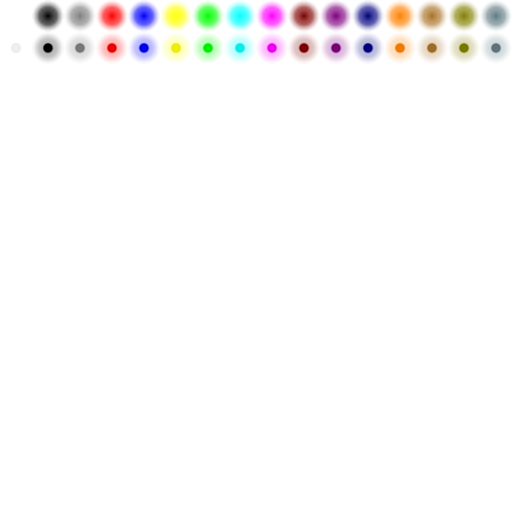
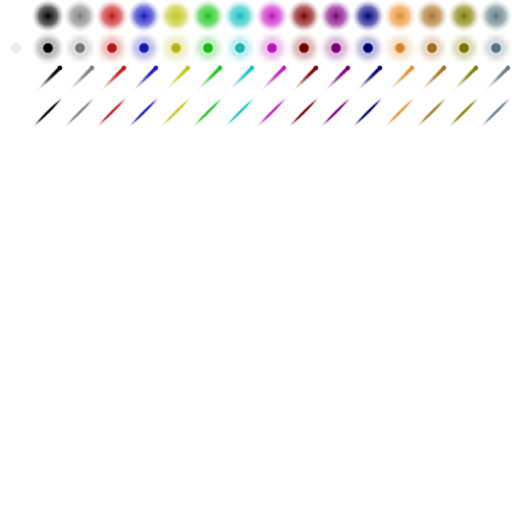
intro: Added arriving player fleet

diff --git a/src/ui/intro/IntroSteps.ts b/src/ui/intro/IntroSteps.ts
@@ -63,7 +63,10 @@ module TS.SpaceTac.UI {
                 this.message("No official communication has been issued since, and numerous rogue fleets have taken position in key sectors of the galaxy, forbidding passage or harassing merchants."),
                 this.message("The Master Merchant Guild, a powerful group that spans several galaxies, is worried about the profit loss those events incurred, and after many debates, decided to send several investigation teams to Terranax."),
                 this.message("Their task is to discreetly uncover the origin of the invasion, and to bring back intel that may be used by the Guild to plan an appropriate response."),
-                this.message("Your team has been sent through the Expeller jump system based in the Eros-MC galaxy, and just left quantum space in orbit of a Terranaxan star..."),
+                this.simultaneous( [
+                    this.exitftl(),
+                    this.message("Your team has been sent through the Expeller jump system based in the Eros-MC galaxy, and just left quantum space in orbit of a Terranaxan star..."),
+                ]),
             ];
         }
 
@@ -108,6 +111,32 @@ module TS.SpaceTac.UI {
         }
 
         /**
+         * Display a fleet emerging from FTL
+         */
+        protected exitftl(): Function {
+            return () => {
+                let layer = this.getLayer(1);
+                let builder = new ParticleBuilder(this.view);
+                let fleet = builder.build([
+                    new ParticleConfig(ParticleShape.TRAIL, ParticleColor.BLUEISH, 0.8, 1, 200),
+                    new ParticleConfig(ParticleShape.FLARE, ParticleColor.CYAN, 10, 0.2, -45)
+                ]);
+                fleet.position.set(this.view.getMidWidth(), this.view.getMidHeight());
+                this.view.game.add.tween(fleet).from({ x: fleet.x + 1500, y: fleet.y - 750 }, 3000, Phaser.Easing.Circular.Out, true);
+                this.view.game.add.tween(fleet).to({ alpha: 0, width: 40, height: 40 }, 500, Phaser.Easing.Cubic.Out, true, 2000);
+                let flash = this.view.game.add.image(this.view.getMidWidth() + 60, this.view.getMidHeight() - 30, "common-particles", 15);
+                flash.anchor.set(0.5);
+                flash.scale.set(0.1);
+                flash.alpha = 0;
+                let subflash = this.view.game.add.image(0, 0, "common-particles", 0);
+                subflash.anchor.set(0.5);
+                subflash.scale.set(0.5);
+                flash.addChild(subflash);
+                this.view.game.add.tween(flash).to({ alpha: 0.7, width: 60, height: 60 }, 300, Phaser.Easing.Quadratic.Out, true, 2000, undefined, true);
+            }
+        }
+
+        /**
          * Build a step that performs several other steps at the same time
          */
         protected simultaneous(steps: Function[]): Function {
@@ -119,11 +148,13 @@ module TS.SpaceTac.UI {
         /**
          * Build a step to display a message.
          */
-        protected message(message: string, layer = 1, clear = true): Function {
+        protected message(message: string, layer = 2, clear = true): Function {
             return () => {
                 let display = new ProgressiveMessage(this.view, 800, 150, message, true);
                 display.setPositionInsideParent(0.5, 0.9);
                 display.moveToLayer(this.getLayer(layer, clear));
+                display.setVisible(false);
+                display.setVisible(true, 500);
             }
         }
 

diff --git a/src/ui/common/ParticleBuilder.ts b/src/ui/common/ParticleBuilder.ts
@@ -1,0 +1,100 @@
+module TS.SpaceTac.UI {
+    /**
+     * Particle shapes
+     */
+    export enum ParticleShape {
+        ROUND = 0,
+        DISK_HALO = 1,
+        TRAIL = 2,
+        FLARE = 3
+    }
+
+    /**
+     * Particle colors
+     */
+    export enum ParticleColor {
+        WHITE = 0,
+        BLACK = 1,
+        GREY = 2,
+        RED = 3,
+        BLUE = 4,
+        YELLOW = 5,
+        GREEN = 6,
+        CYAN = 7,
+        MAGENTA = 8,
+        BROWN = 9,
+        VIOLET = 10,
+        MARINE = 11,
+        ORANGE = 12,
+        YELLOWISH = 13,
+        GREENISH = 14,
+        BLUEISH = 15,
+    }
+
+    /**
+     * Config for a single sub-particle
+     */
+    export class ParticleConfig {
+        shape: ParticleShape
+        color: ParticleColor
+        scale: number
+        alpha: number
+        angle: number
+        offsetx: number
+        offsety: number
+
+        constructor(shape = ParticleShape.ROUND, color = ParticleColor.WHITE, scale = 1, alpha = 1, angle = 0, offsetx = 0, offsety = 0) {
+            this.shape = shape;
+            this.color = color;
+            this.scale = scale;
+            this.alpha = alpha;
+            this.angle = angle;
+            this.offsetx = offsetx;
+            this.offsety = offsety;
+        }
+
+        /**
+         * Get a particle image for this config
+         */
+        getImage(game: Phaser.Game, scaling = 1, angle = 0): Phaser.Image {
+            let frame = this.shape * 16 + this.color;
+            let result = game.add.image(0, 0, "common-particles", frame);
+            result.data.frame = frame;
+            result.data.key = "common-particles";
+            result.anchor.set(0.5);
+            result.angle = angle + this.angle;
+            result.alpha = this.alpha;
+            result.scale.set(this.scale * scaling);
+            result.position.set(this.offsetx * scaling, this.offsety * scaling);
+            return result;
+        }
+    }
+
+    /**
+     * Builder of particles, composed of one or several sub particles
+     */
+    export class ParticleBuilder {
+        view: BaseView
+
+        constructor(view: BaseView) {
+            this.view = view;
+        }
+
+        /**
+         * Build a composed particle
+         */
+        build(configs: ParticleConfig[]): Phaser.Image {
+            if (configs.length == 0) {
+                return this.view.game.add.image(0, 0, "common-transparent");
+            } else {
+                let base = configs[0];
+                let result = base.getImage(this.view.game, 1);
+                configs.slice(1).forEach(config => {
+                    let sub = config.getImage(this.view.game, 1 / base.scale, -base.angle);
+                    result.addChild(sub);
+                });
+                return result;
+            }
+        }
+    }
+}

diff --git a/src/ui/common/ParticleBuilder.spec.ts b/src/ui/common/ParticleBuilder.spec.ts
@@ -1,0 +1,33 @@
+module TS.SpaceTac.UI.Specs {
+    describe("ParticleBuilder", () => {
+        let testgame = setupEmptyView();
+
+        it("builds composed particles", function () {
+            let builder = new ParticleBuilder(testgame.baseview);
+            let particle = builder.build([
+                new ParticleConfig(ParticleShape.ROUND, ParticleColor.BLUE, 2, 1, 45, 10, -20),
+                new ParticleConfig(ParticleShape.DISK_HALO, ParticleColor.WHITE, 0.5, 1, 0, 5, 0)
+            ]);
+
+            expect(particle instanceof Phaser.Image).toBe(true);
+            expect(particle.data.frame).toEqual(4);
+            expect(particle.data.key).toEqual("common-particles");
+            expect(particle.scale.x).toEqual(2);
+            expect(particle.scale.y).toEqual(2);
+            expect(particle.x).toEqual(10);
+            expect(particle.y).toEqual(-20);
+            expect(particle.angle).toEqual(45);
+
+            expect(particle.children.length).toEqual(1);
+            let subparticle = <Phaser.Image>particle.getChildAt(0);
+            expect(subparticle instanceof Phaser.Image).toBe(true);
+            expect(subparticle.data.frame).toEqual(16);
+            expect(subparticle.data.key).toEqual("common-particles");
+            expect(subparticle.scale.x).toEqual(0.25);
+            expect(subparticle.scale.y).toEqual(0.25);
+            expect(subparticle.x).toEqual(2.5);
+            expect(subparticle.y).toEqual(0);
+            expect(subparticle.angle).toEqual(-45);
+        });
+    });
+}

diff --git a/src/ui/menu/MainMenu.ts b/src/ui/menu/MainMenu.ts
@@ -23,10 +23,11 @@ module TS.SpaceTac.UI {
             for (let i = 0; i < 300; i++) {
                 let fade = Math.random() * 0.5 + 0.5;
                 let x = Math.random() * 0.998 + 0.001;
-                let star = this.add.image(1920 * x, Math.random() * 1080, "menu-star", 0, this.layer_stars);
+                let star = this.add.image(1920 * x, Math.random() * 1080, "common-particles", 32, this.layer_stars);
                 star.anchor.set(0.5, 0.5);
+                star.angle = 225;
                 star.alpha = 0.7 * fade;
-                star.scale.set(0.1 * fade, 0.1 * fade);
+                star.scale.set(0.8 * fade, 0.8 * fade);
                 this.tweens.create(star).to({ x: -30 }, 30000 * x / fade).to({ x: 1950 }, 0.00001).to({ x: 1920 * x }, 30000 * (1 - x) / fade).loop().start();
             }
 

diff --git a/src/ui/Preload.ts b/src/ui/Preload.ts
@@ -15,7 +15,6 @@ module TS.SpaceTac.UI {
             this.loadImage("menu/button.png");
             this.loadImage("menu/button-hover.png");
             this.loadImage("menu/button-fullscreen.png");
-            this.loadImage("menu/star.png");
             this.loadImage("menu/load-bg.png");
             this.loadSheet("common/particles.png", 32);
             this.loadImage("common/transparent.png");
